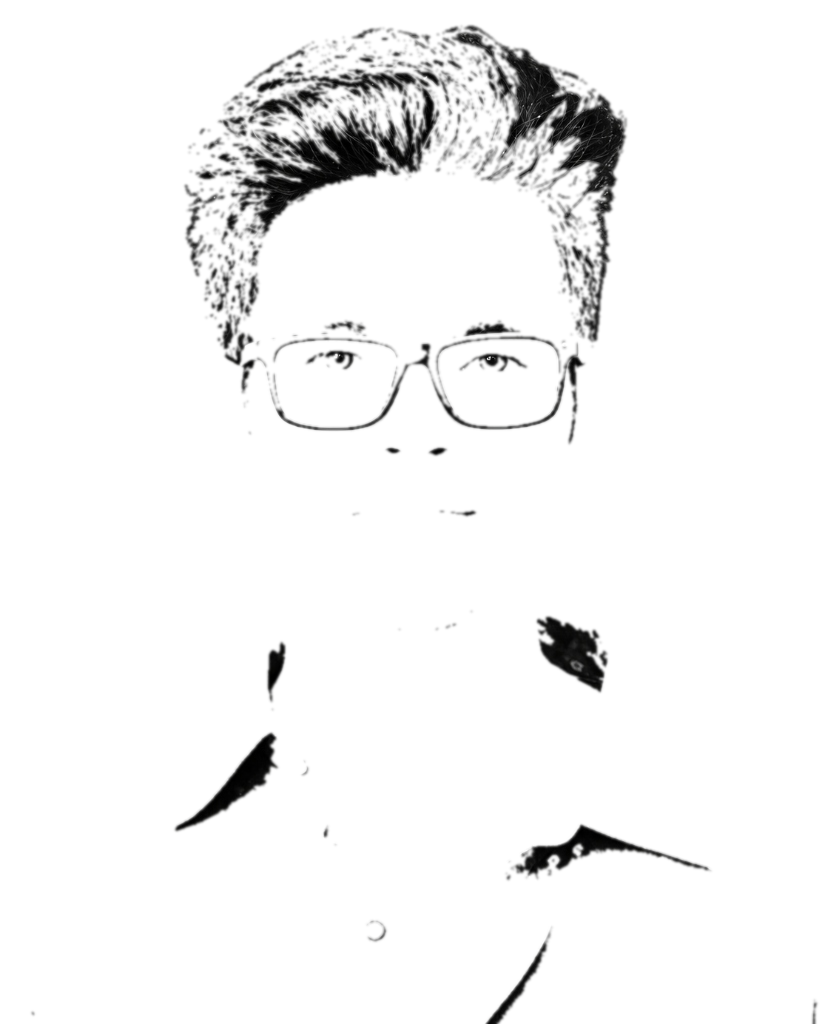
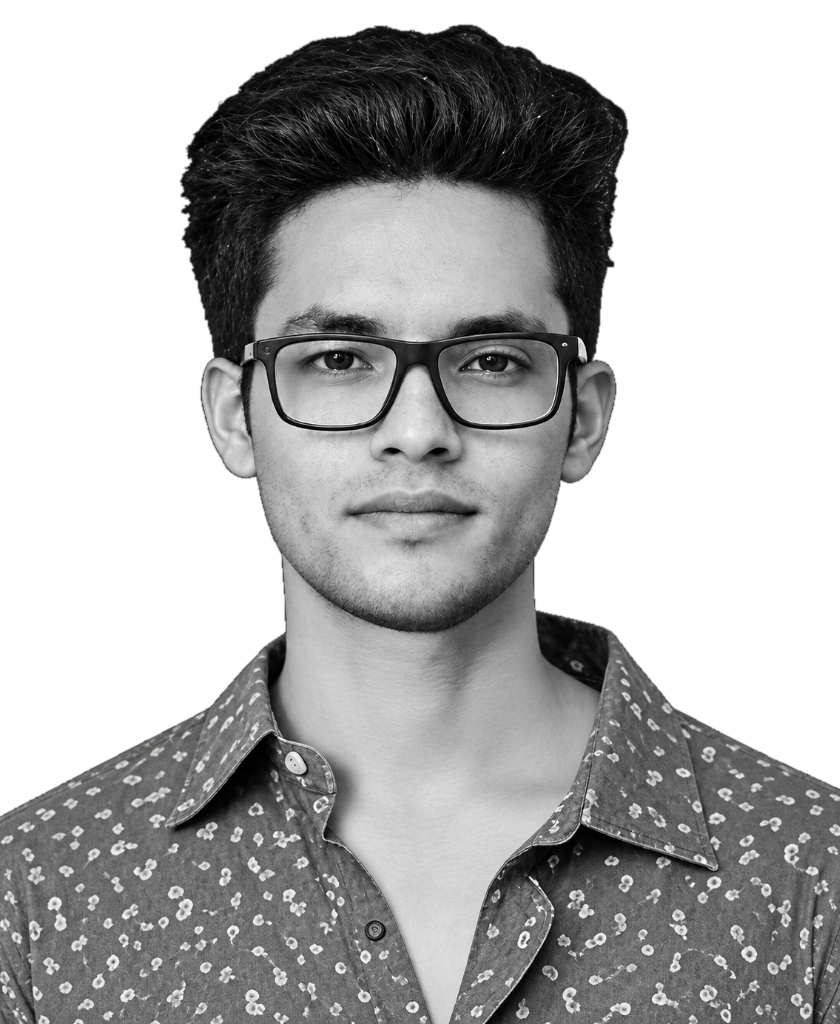
Add true high-res transparent portrait cutout: 100% opaque silhouette with background cleanly removed

diff --git a/index.html b/index.html
@@ -111,8 +111,8 @@
                     <div class="portrait-corner bl"></div>
                     <div class="portrait-corner br"></div>
 
-                    <!-- Cutout Portrait of Puneet -->
-                    <img src="puneet.jpg" alt="Puneet Kukreti" class="portrait-img" />
+                    <!-- Cutout Portrait of Puneet (Transparent Cutout) -->
+                    <img src="puneet_transparent.png" alt="Puneet Kukreti" class="portrait-img" />
                   </div>
               </div>
 

diff --git a/style.css b/style.css
@@ -547,8 +547,8 @@ body {
   height: 100%;
   object-fit: cover;
   object-position: center 15%;
-  /* mix-blend-mode: screen; */ /* Makes dark studio background 100% transparent! */
-  filter: contrast(1.1) brightness(1.05);
+  background: transparent;
+  display: block;
   pointer-events: none;
   z-index: 2;
 }
